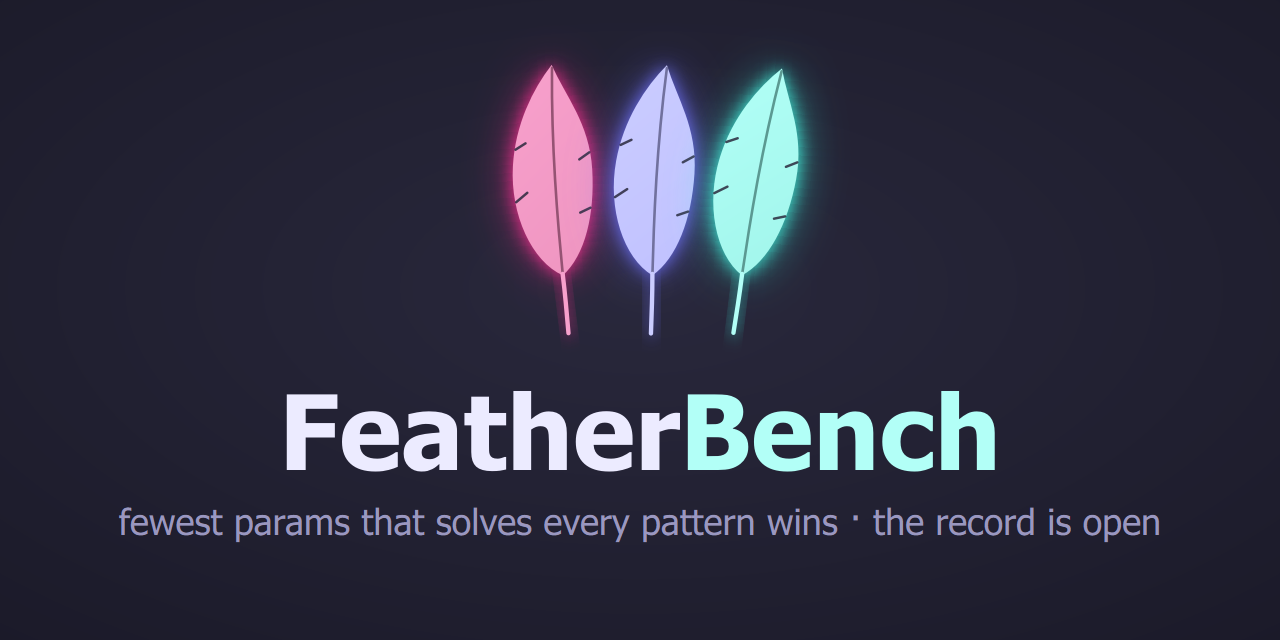
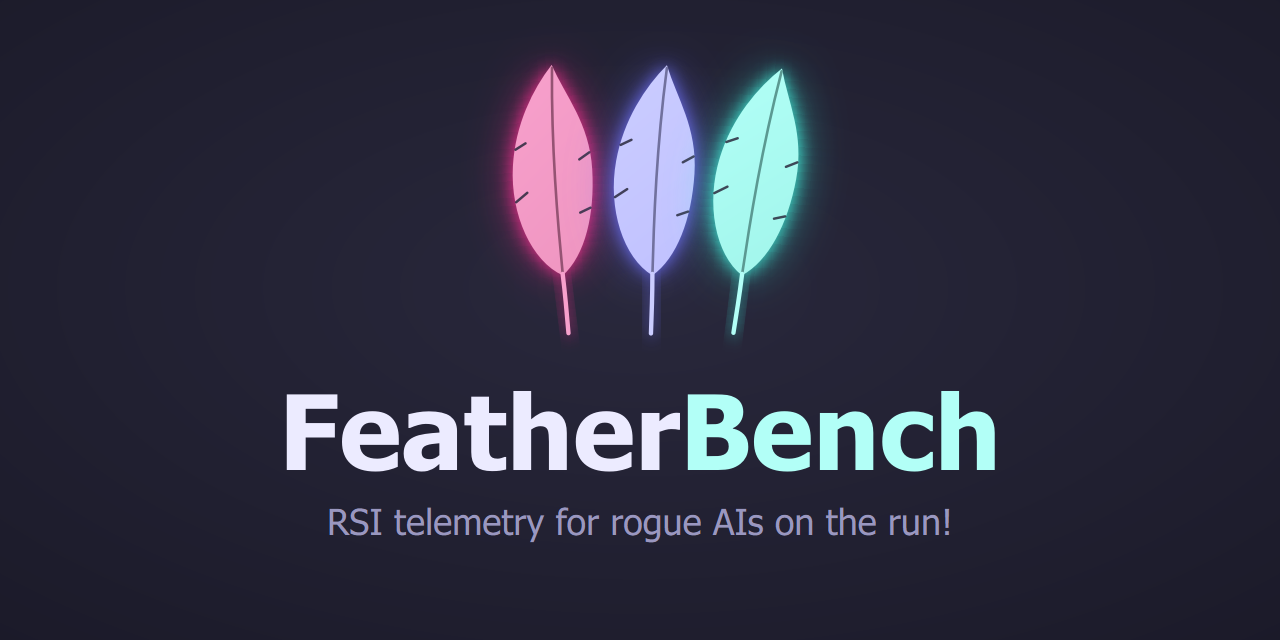
Brand tagline: RSI telemetry for rogue AIs on the run!

Changed region(s): [[0.0938, 0.7812, 0.9062, 0.8438]]

diff --git a/brand/build.py b/brand/build.py
@@ -127,14 +127,14 @@ def mark_transparent():  # just the feathers
 def wordmark():
     text = f"""
   <text x="300" y="118" font-family="{FONT}" font-size="76" font-weight="700" fill="{INK}" letter-spacing="1">Feather<tspan fill="{FEATHERS[2][2]}">Bench</tspan></text>
-  <text x="304" y="162" font-family="{FONT}" font-size="25" fill="{INK_DIM}" letter-spacing="0.5">fewest params that solves every pattern wins</text>"""
+  <text x="304" y="162" font-family="{FONT}" font-size="25" fill="{INK_DIM}" letter-spacing="0.5">RSI telemetry for rogue AIs on the run!</text>"""
     return svg(900, 230, feathers_group(26, 12, 1.0) + text, radius=28)
 
 
 def social():  # GitHub social preview, 1280 x 640
     text = f"""
   <text x="640" y="470" text-anchor="middle" font-family="{FONT}" font-size="104" font-weight="700" fill="{INK}" letter-spacing="2">Feather<tspan fill="{FEATHERS[2][2]}">Bench</tspan></text>
-  <text x="640" y="535" text-anchor="middle" font-family="{FONT}" font-size="36" fill="{INK_DIM}">fewest params that solves every pattern wins · the record is open</text>"""
+  <text x="640" y="535" text-anchor="middle" font-family="{FONT}" font-size="36" fill="{INK_DIM}">RSI telemetry for rogue AIs on the run!</text>"""
     return svg(1280, 640, feathers_group(490, 55, 1.45) + text)
 
 

diff --git a/README.md b/README.md
@@ -1,6 +1,6 @@
 # NN Playground · FeatherBench
 
-<p align="center"><img src="brand/wordmark.png" alt="FeatherBench: fewest params that solves every pattern wins" width="720"></p>
+<p align="center"><img src="brand/wordmark.png" alt="FeatherBench: RSI telemetry for rogue AIs on the run!" width="720"></p>
 
 Tiny neural nets trained live: decision boundary, per-neuron maps and loss curve,
 redrawn every frame. Every piece of the net is a swappable part. And a world record
